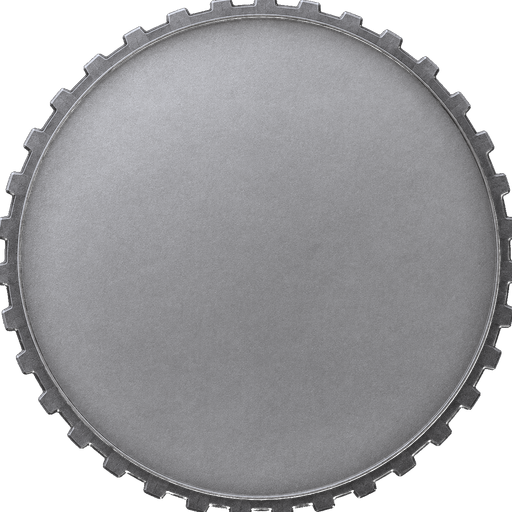
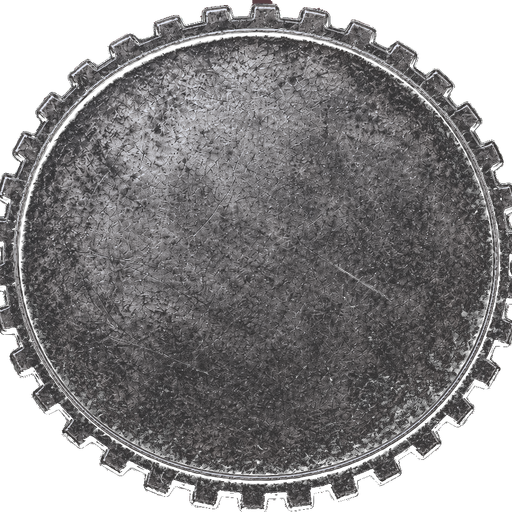
feat(botc): coin_4 art, the coin wears one moon phase at top centre, tag chips carry their own marks, and the coin's shadow follows its teeth instead of a circle (FT-854/FT-859)

diff --git a/src/components/Token.vue b/src/components/Token.vue
@@ -50,23 +50,18 @@
 
     <!-- night order, reminder count and setup, set into the wheel -->
     <svg viewBox="0 0 150 150" class="marks" v-if="hasMarks">
-      <path
-        v-if="role.firstNight || role.firstNightReminder"
-        class="mark moon"
-        :d="firstNightMoon"
-      />
-      <path
-        v-if="role.otherNight || role.otherNightReminder"
-        class="mark moon"
-        :d="otherNightMoon"
-      />
-      <circle
-        v-for="(stud, i) in reminderStuds"
-        :key="'stud' + i"
-        class="mark stud"
-        :cx="stud.x"
-        :cy="stud.y"
-        r="2.9"
+      <!-- ONE phase at top centre says when this character wakes (user call
+           2026-08-18): a crescent for the first night, the rest of that moon
+           for later nights, the full moon for both. It takes the spot the
+           reminder studs held — the studs' computed stays below, unused. -->
+      <image
+        v-if="nightPhase"
+        class="mark phase"
+        :href="nightPhase"
+        :x="PHASE_X"
+        :y="PHASE_Y"
+        :width="PHASE_W"
+        :height="PHASE_W"
       />
       <template v-if="role.setup">
         <path class="mark setting" :d="setupLozenge.bezel" />
@@ -110,6 +105,9 @@ import { mapState } from "vuex";
 // FT-858: THE role hover card, shared with the Almanac workbench's shelf and
 // the grimoire drawer.
 import RoleHoverCard from "./RoleHoverCard";
+import moonFirst from "../assets/moon-first.png";
+import moonOther from "../assets/moon-other.png";
+import moonFull from "../assets/moon-full.png";
 
 // how long the cursor has to rest on a coin before its card appears —
 // enough that sweeping across the square does not strobe cards
@@ -125,6 +123,10 @@ const CY = 75;
 // the marks sit just INSIDE the gold hairline rather than in the ring, which
 // is where they fit and where upstream's leaves read from.
 const MARK_R = 67.5;
+// the phase mark, centred on the top of the wheel just inside the hairline
+const PHASE_W = 15;
+const PHASE_X = (CX - PHASE_W / 2).toFixed(2);
+const PHASE_Y = (CY - MARK_R - PHASE_W / 2 + 2).toFixed(2);
 const RAD = Math.PI / 180;
 
 /**
@@ -184,6 +186,19 @@ export default {
     }
   },
   computed: {
+    /**
+     * When this character wakes, as one moon: a crescent for the first night,
+     * the rest of that moon for later nights, the full moon for both. (user
+     * call 2026-08-18 — it took the reminder studs' place at top centre.)
+     */
+    nightPhase: function() {
+      const first = !!(this.role.firstNight || this.role.firstNightReminder);
+      const other = !!(this.role.otherNight || this.role.otherNightReminder);
+      if (first && other) return moonFull;
+      if (first) return moonFirst;
+      if (other) return moonOther;
+      return null;
+    },
     /**
      * How many reminder tokens this role puts on the board — the count the
      * studs across the top of the wheel report.
@@ -265,7 +280,11 @@ export default {
     return {
       // the coin element the hover card is pinned to, once the cursor has
       // rested on it; null while nothing is showing
-      cardAnchor: null
+      cardAnchor: null,
+      // the phase mark's geometry, exposed for the template
+      PHASE_W,
+      PHASE_X,
+      PHASE_Y
     };
   },
   beforeDestroy() {
@@ -336,7 +355,11 @@ $blood: #970000; // our red, for the one mark that must not be missed
   // black hoop drawn round a toothed wheel closes the silhouette back into
   // a circle and throws the gear away.
   border: 3px solid transparent;
-  box-shadow: 0 0 10px rgba(0, 0, 0, 0.5);
+  // A box-shadow follows the BOX (a circle, here) and so drew a dark ring
+  // that showed past the coin's teeth — the "something peeking from behind
+  // the disc" (user report 2026-08-18). drop-shadow follows the art's own
+  // alpha, teeth included.
+  filter: drop-shadow(0 0 7px rgba(0, 0, 0, 0.55));
   cursor: pointer;
   display: flex;
   align-items: center;

diff --git a/src/components/TownInfo.vue b/src/components/TownInfo.vue
@@ -19,49 +19,47 @@
         {{ edition.name }}
         {{ edition.author ? "by " + edition.author : "" }}
       </span>
-      <span>
-        {{ players.length }} <font-awesome-icon class="players" icon="users" />
+      <!-- Golem fork: our own count art (golem/glyphs), not Font Awesome —
+           the town, the living, the dead, the votes those hands can cast. -->
+      <span title="In the town">
+        {{ players.length }}
+        <img class="count-icon" :src="countIcons.town" alt="players" />
       </span>
-      <span>
+      <span title="Alive">
         {{ teams.alive }}
-        <font-awesome-icon class="alive" icon="heartbeat" />
+        <img class="count-icon" :src="countIcons.alive" alt="alive" />
       </span>
-      <span>
-        {{ teams.votes }} <font-awesome-icon class="votes" icon="vote-yea" />
+      <span title="Dead">
+        {{ teams.dead }}
+        <img class="count-icon" :src="countIcons.dead" alt="dead" />
+      </span>
+      <span title="Votes available">
+        {{ teams.votes }}
+        <img class="count-icon" :src="countIcons.votes" alt="votes" />
       </span>
     </li>
     <li v-if="players.length - teams.traveler >= 5">
-      <span>
+      <!-- the composition, in the same team art the drawer and the script
+           workbench wear (golem/glyphs) -->
+      <span title="Townsfolk">
         {{ teams.townsfolk }}
-        <font-awesome-icon class="townsfolk" icon="user-friends" />
+        <img class="team-glyph" :src="teamGlyph('townsfolk')" alt="townsfolk" />
       </span>
-      <span>
+      <span title="Outsiders">
         {{ teams.outsider }}
-        <font-awesome-icon
-          class="outsider"
-          :icon="teams.outsider > 1 ? 'user-friends' : 'user'"
-        />
+        <img class="team-glyph" :src="teamGlyph('outsider')" alt="outsiders" />
       </span>
-      <span>
+      <span title="Minions">
         {{ teams.minion }}
-        <font-awesome-icon
-          class="minion"
-          :icon="teams.minion > 1 ? 'user-friends' : 'user'"
-        />
+        <img class="team-glyph" :src="teamGlyph('minion')" alt="minions" />
       </span>
-      <span>
+      <span title="Demons">
         {{ teams.demon }}
-        <font-awesome-icon
-          class="demon"
-          :icon="teams.demon > 1 ? 'user-friends' : 'user'"
-        />
+        <img class="team-glyph" :src="teamGlyph('demon')" alt="demons" />
       </span>
-      <span v-if="teams.traveler">
+      <span v-if="teams.traveler" title="Travellers">
         {{ teams.traveler }}
-        <font-awesome-icon
-          class="traveler"
-          :icon="teams.traveler > 1 ? 'user-friends' : 'user'"
-        />
+        <img class="team-glyph" :src="teamGlyph('traveler')" alt="travellers" />
       </span>
       <span v-if="grimoire.isNight">
         Night phase
@@ -74,8 +72,14 @@
 <script>
 import gameJSON from "./../game";
 import { mapState } from "vuex";
+// Golem fork: the fork's own icon art, defined once (golem/glyphs) and shared
+// with the role drawer, the script workbench and the edition modal.
+import { COUNT_ICONS, teamGlyph } from "../golem/glyphs";
 
 export default {
+  data() {
+    return { countIcons: COUNT_ICONS };
+  },
   computed: {
     teams: function() {
       const { players } = this.$store.state.players;
@@ -85,6 +89,7 @@ export default {
         ...gameJSON[nonTravelers - 5],
         traveler: players.length - nonTravelers,
         alive,
+        dead: players.length - alive,
         votes:
           alive +
           players.filter(
@@ -94,6 +99,9 @@ export default {
     },
     ...mapState(["edition", "grimoire"]),
     ...mapState("players", ["players"])
+  },
+  methods: {
+    teamGlyph
   }
 };
 </script>

diff --git a/src/components/RoleHoverCard.vue b/src/components/RoleHoverCard.vue
@@ -31,7 +31,9 @@
       <!-- the role's tags as chips (team rides the border, so it stays off
            the chips) -->
       <span class="tip-chips" v-if="shownChips.length">
-        <span class="tip-chip" v-for="c in shownChips" :key="c">{{ c }}</span>
+        <span class="tip-chip" v-for="c in shownChips" :key="c.label">
+          <img class="chip-mark" v-if="c.icon" :src="c.icon" alt="" />{{ c.label }}
+        </span>
       </span>
     </span>
   </div>
@@ -41,6 +43,11 @@
 import { mapState } from "vuex";
 import editionJSON from "../editions.json";
 import rolesJSON from "../roles.json";
+import { EDITION_ICONS, edCustom } from "../golem/editionArt";
+import moonFirst from "../assets/moon-first.png";
+import moonOther from "../assets/moon-other.png";
+import moonFull from "../assets/moon-full.png";
+import setupGlyph from "../assets/blood/demon-glyph.png";
 
 // Which official roles came from where — the same labels the workbench's tag
 // filter uses, so a chip reads identically on both surfaces.
@@ -123,7 +130,11 @@ export default {
       }
     },
     shownChips() {
-      return this.chips === null ? this.derivedChips : this.chips;
+      if (this.chips === null) return this.derivedChips;
+      // consumers may pass plain strings; the card draws {label, icon}
+      return this.chips.map(c =>
+        typeof c === "string" ? { label: c, icon: null } : c
+      );
     },
     /**
      * What is provable about the role from the role alone: where it came
@@ -134,9 +145,11 @@ export default {
     derivedChips() {
       const r = this.role;
       const out = [];
-      if (EDITION_LABELS[r.edition]) out.push(EDITION_LABELS[r.edition]);
-      else if (LUF_ROLES.has(r.id)) out.push("Laissez un Faire");
-      else if (OFFICIAL_IDS.has(r.id)) out.push("Experimental");
+      const chip = (label, icon) => out.push({ label, icon: icon || null });
+      if (EDITION_LABELS[r.edition])
+        chip(EDITION_LABELS[r.edition], EDITION_ICONS[r.edition] || edCustom);
+      else if (LUF_ROLES.has(r.id)) chip("Laissez un Faire", EDITION_ICONS.luf || edCustom);
+      else if (OFFICIAL_IDS.has(r.id)) chip("Experimental", edCustom);
       const first = r.firstNight > 0 || !!r.firstNightReminder;
       const other = r.otherNight > 0 || !!r.otherNightReminder;
       const knowsNights =
@@ -144,10 +157,11 @@ export default {
         "otherNight" in r ||
         "firstNightReminder" in r ||
         "otherNightReminder" in r;
-      if (first) out.push("Wakes first night");
-      if (other) out.push("Wakes other nights");
-      if (!first && !other && knowsNights) out.push("Never wakes");
-      if (r.setup) out.push("Affects setup");
+      if (first && other) chip("Wakes every night", moonFull);
+      else if (first) chip("Wakes first night", moonFirst);
+      else if (other) chip("Wakes other nights", moonOther);
+      else if (knowsNights) chip("Never wakes");
+      if (r.setup) chip("Affects setup", setupGlyph);
       return out;
     }
   },
@@ -327,6 +341,13 @@ $team-colors: (
     flex-wrap: wrap;
     gap: 4px;
     margin-top: 5px;
+  }
+  .chip-mark {
+    width: 12px;
+    height: 12px;
+    object-fit: contain;
+    margin-right: 5px;
+    vertical-align: -2px;
   }
   .tip-chip {
     font-size: 10px;

diff --git a/src/golem/glyphs.js b/src/golem/glyphs.js
@@ -1,0 +1,59 @@
+/**
+ * Golem fork: ONE source of truth for the fork's own icon art, so "the glyph
+ * for team X" is defined once instead of copied into every surface that shows
+ * a team (it was three copies before this, and each had drifted onto a
+ * different Font Awesome fallback).
+ *
+ * Two families, deliberately different, because they mean different things:
+ *
+ *  - TEAM_GLYPHS — flat team colour, negative space instead of line work,
+ *    96px tall. demon/outsider are the user's own cut art; townsfolk, minion
+ *    and traveller were baked to sit beside them without looking like a
+ *    different set (claude_temp_test/2026-08-18-count-icons-bake.mjs).
+ *  - COUNT_ICONS — the chrome treatment the player strip and the moons wear:
+ *    bone tone, one light origin, film grain, no traced outline.
+ *
+ * Consumers: TownInfo (the town square's counts), ScriptView (the workbench
+ * composition meter), RoleDrawer (group headers), EditionModal (team toggles
+ * and the role form's team picker).
+ */
+import demonGlyph from "../assets/blood/demon-glyph.png";
+import minionGlyph from "../assets/blood/minion-glyph.png";
+import outsiderGlyph from "../assets/blood/outsider-glyph.png";
+import townsfolkGlyph from "../assets/blood/townsfolk-glyph.png";
+import travelerGlyph from "../assets/blood/traveler-glyph.png";
+
+import aliveIcon from "../assets/ui-alive.png";
+import deadIcon from "../assets/ui-dead.png";
+import townIcon from "../assets/ui-town.png";
+import votesIcon from "../assets/ui-votes.png";
+
+/** The glyph for each team. Both spellings of traveller answer. */
+export const TEAM_GLYPHS = {
+  townsfolk: townsfolkGlyph,
+  outsider: outsiderGlyph,
+  minion: minionGlyph,
+  demon: demonGlyph,
+  traveler: travelerGlyph,
+  traveller: travelerGlyph
+};
+
+/**
+ * @param {string} team one of townsfolk / outsider / minion / demon / traveller
+ * @returns {string|null} the image src, or null so a caller can fall back
+ */
+export const teamGlyph = team => TEAM_GLYPHS[team] || null;
+
+/**
+ * The town square's counts. `votes` reuses the player strip's gallows — in
+ * this fork a gallows already means "the vote", and the vote count is how
+ * many hands could send someone to it.
+ */
+export const COUNT_ICONS = {
+  town: townIcon,
+  alive: aliveIcon,
+  dead: deadIcon,
+  votes: votesIcon
+};
+
+export default { TEAM_GLYPHS, teamGlyph, COUNT_ICONS };
